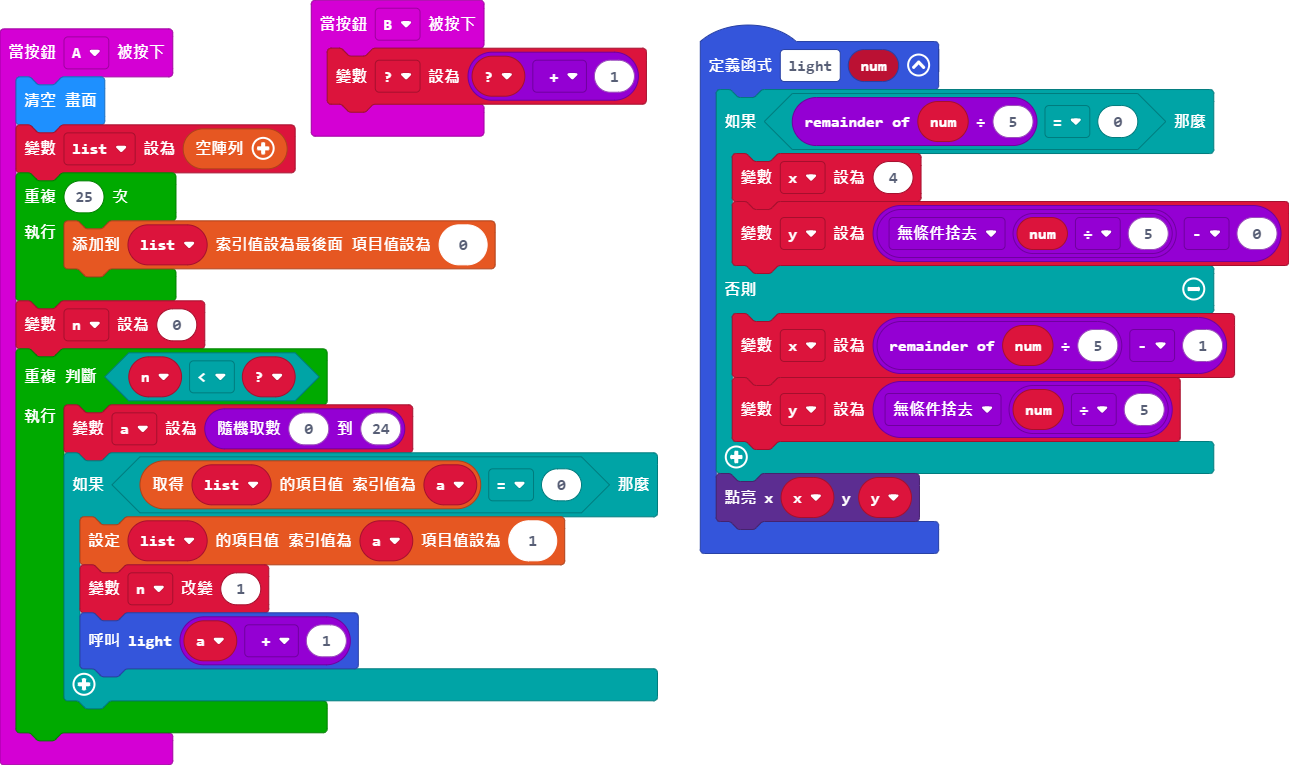
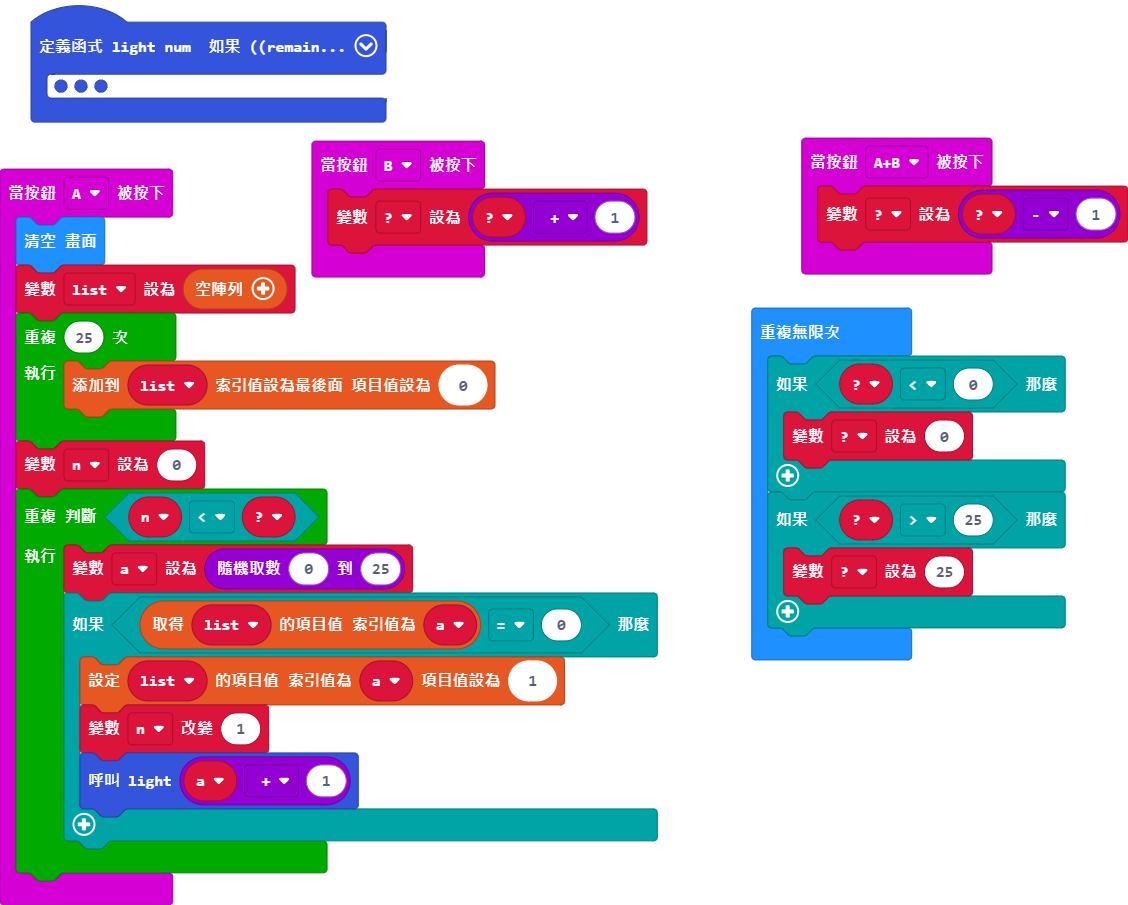
更新 main.blocks, main.ts

diff --git a/main.ts b/main.ts
@@ -12,7 +12,7 @@ input.onButtonPressed(Button.A, function () {
     }
     n = 0
     while (n < _) {
-        a = randint(0, 24)
+        a = randint(0, 25)
         if (list[a] == 0) {
             list[a] = 1
             n += 1
@@ -20,16 +20,27 @@ input.onButtonPressed(Button.A, function () {
         }
     }
 })
+input.onButtonPressed(Button.AB, function () {
+    _ = _ - 1
+})
 input.onButtonPressed(Button.B, function () {
     _ = _ + 1
 })
 function light2 (num: number) {
     if (num % 5 == 0) {
         x = 4
-        y = Math.floor(num / 5) - 0
+        y = Math.floor(num / 5) - 1
     } else {
         x = num % 5 - 1
         y = Math.floor(num / 5)
     }
     led.plot(x, y)
 }
+basic.forever(function () {
+    if (_ < 0) {
+        _ = 0
+    }
+    if (_ > 25) {
+        _ = 25
+    }
+})
